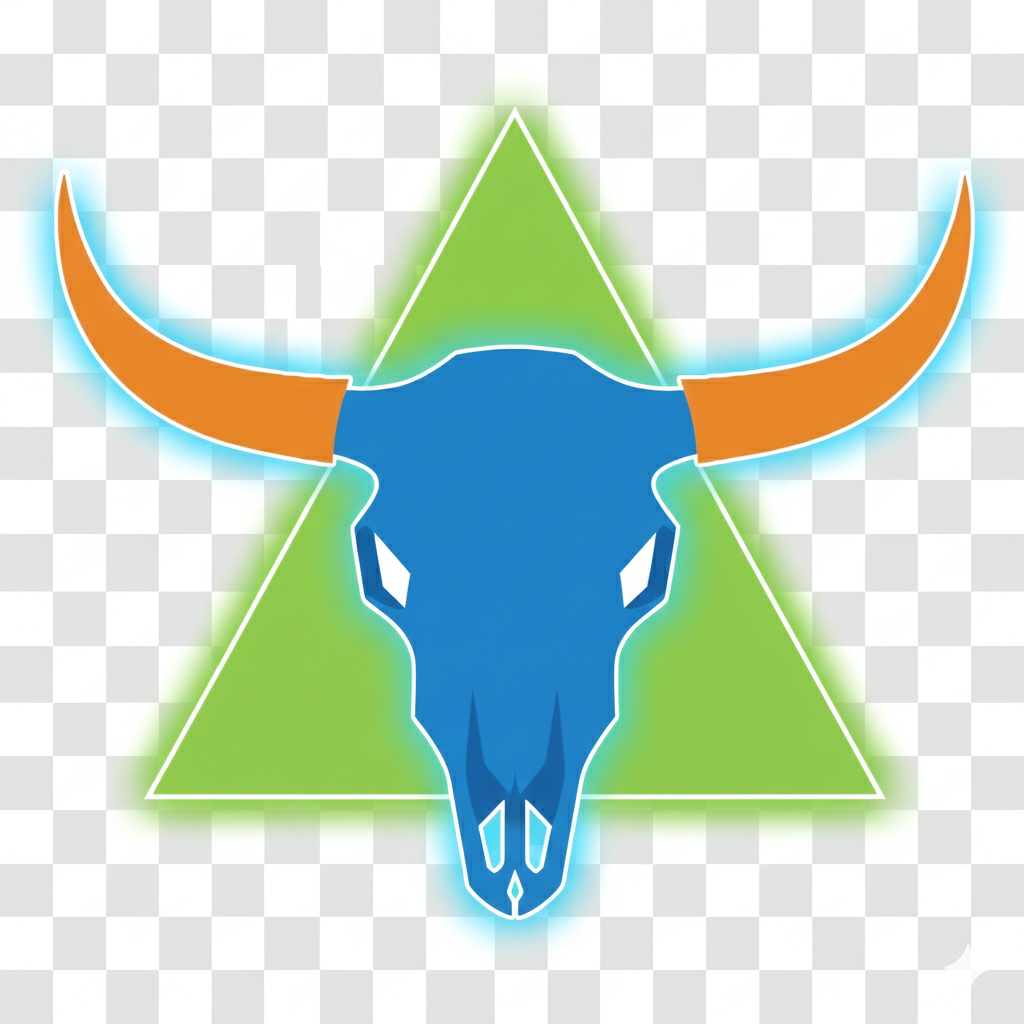
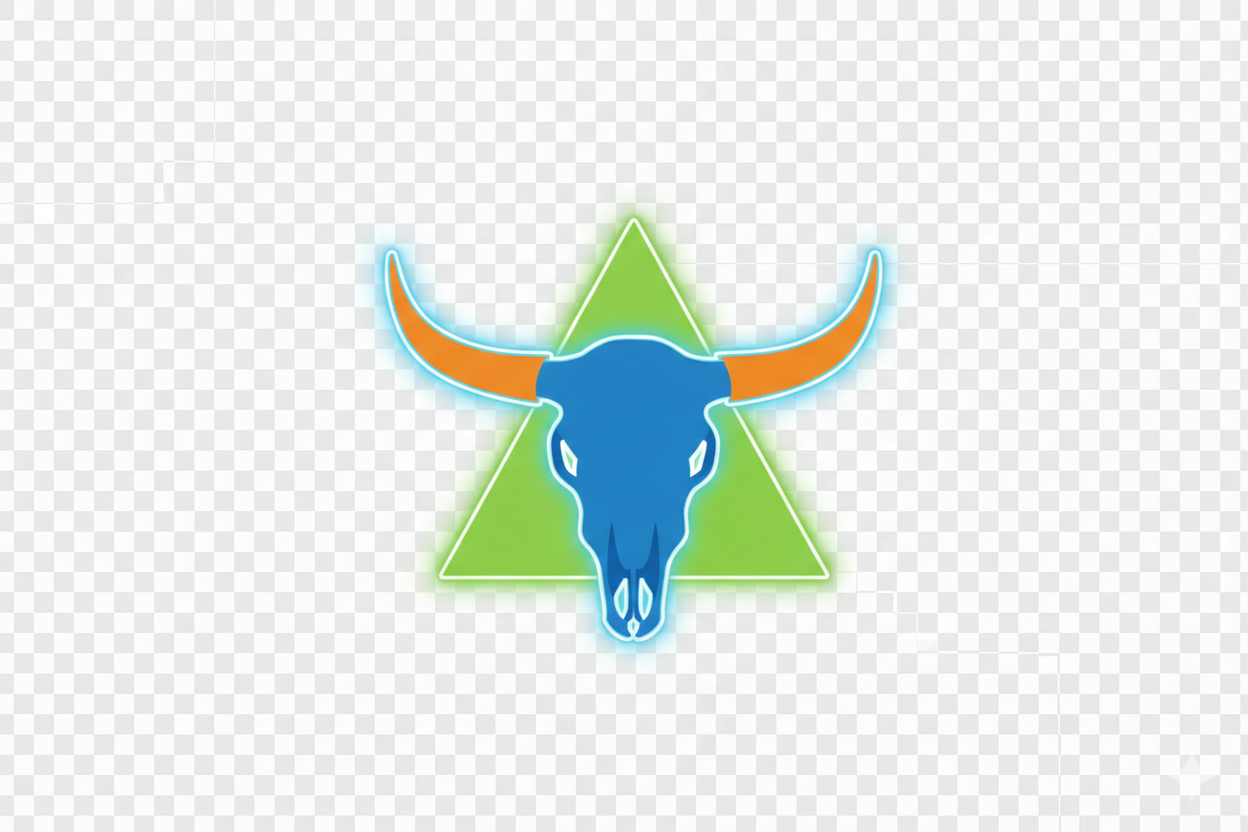
画像修正

diff --git a/ui/css/base.css b/ui/css/base.css
@@ -171,12 +171,7 @@ details summary {
   margin: 10px 0 20px;
 }
 
-.illustration-img {
-  width: 140px; /* 少し小さくするとバランスが良いです */
-  height: auto;
-  /* 透過画像なら、このシャドウが綺麗に形に沿って光ります */
-  filter: drop-shadow(0 0 8px rgba(0, 122, 255, 0.5));
-}
+
 /* =========================================================
    Quiz Page Specific (Quiz)
    ========================================================= */
